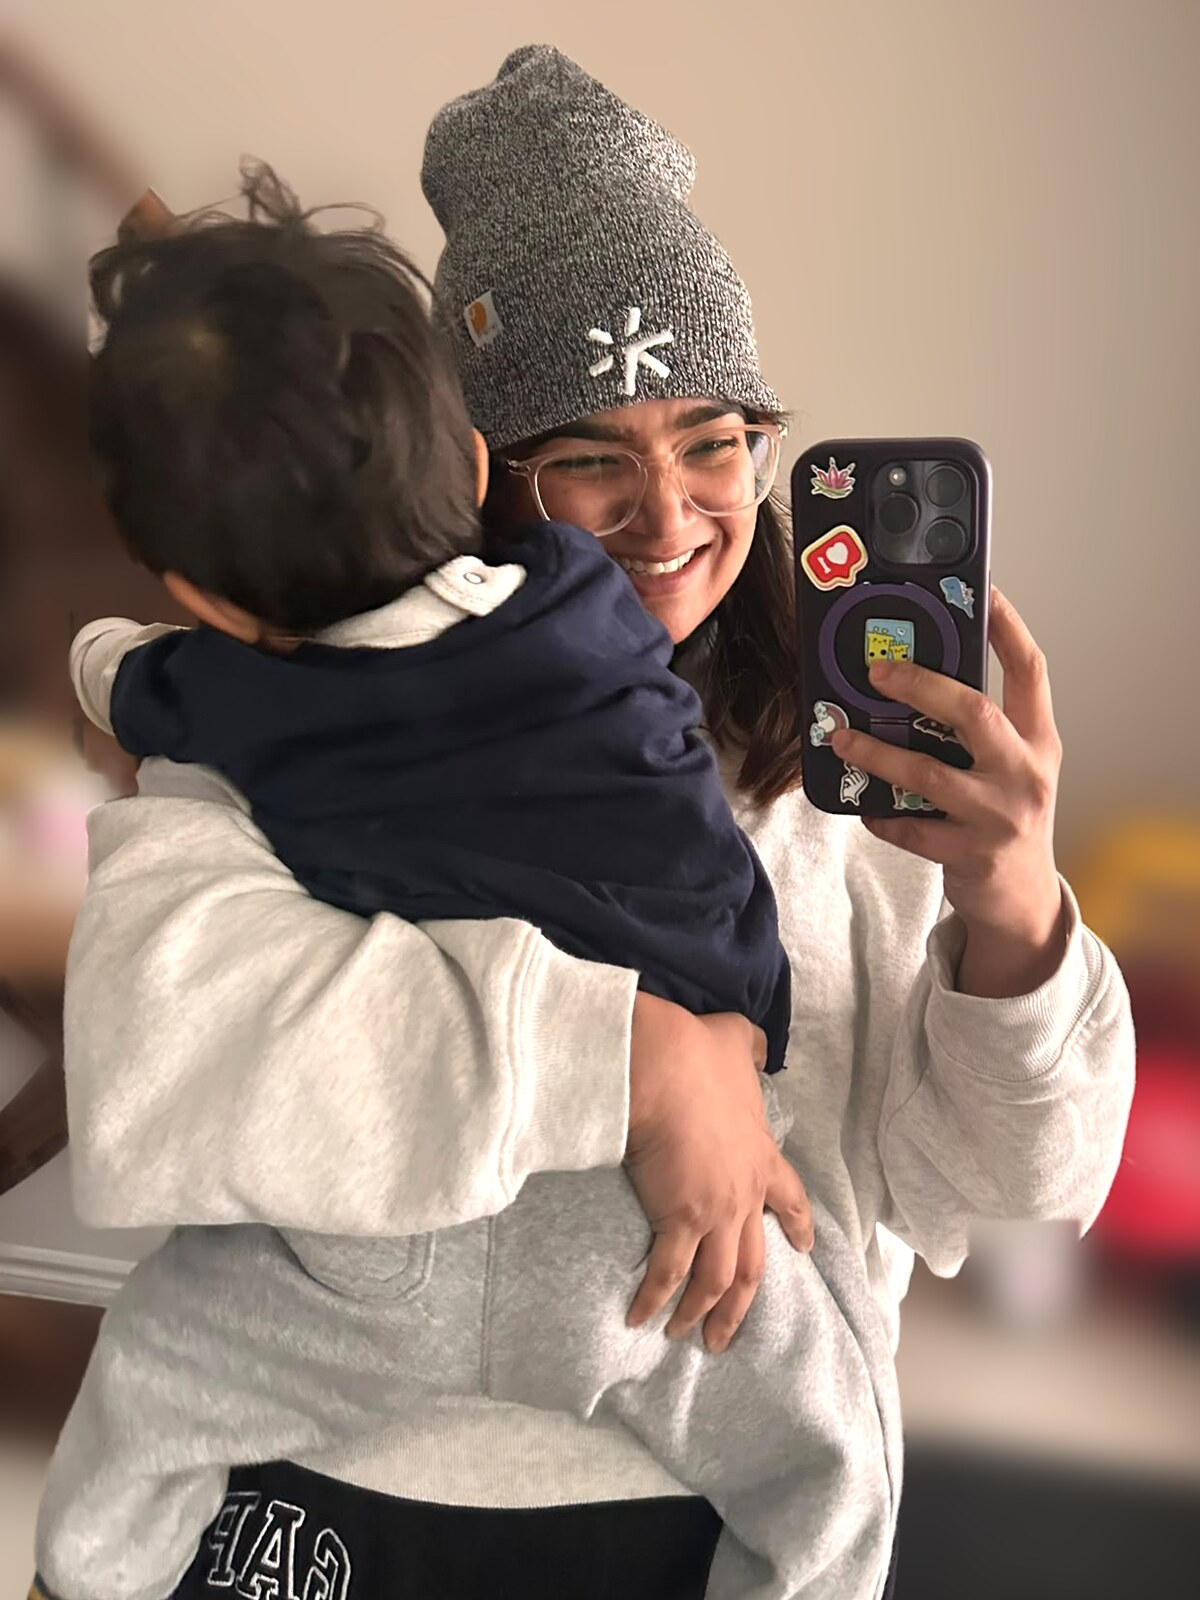
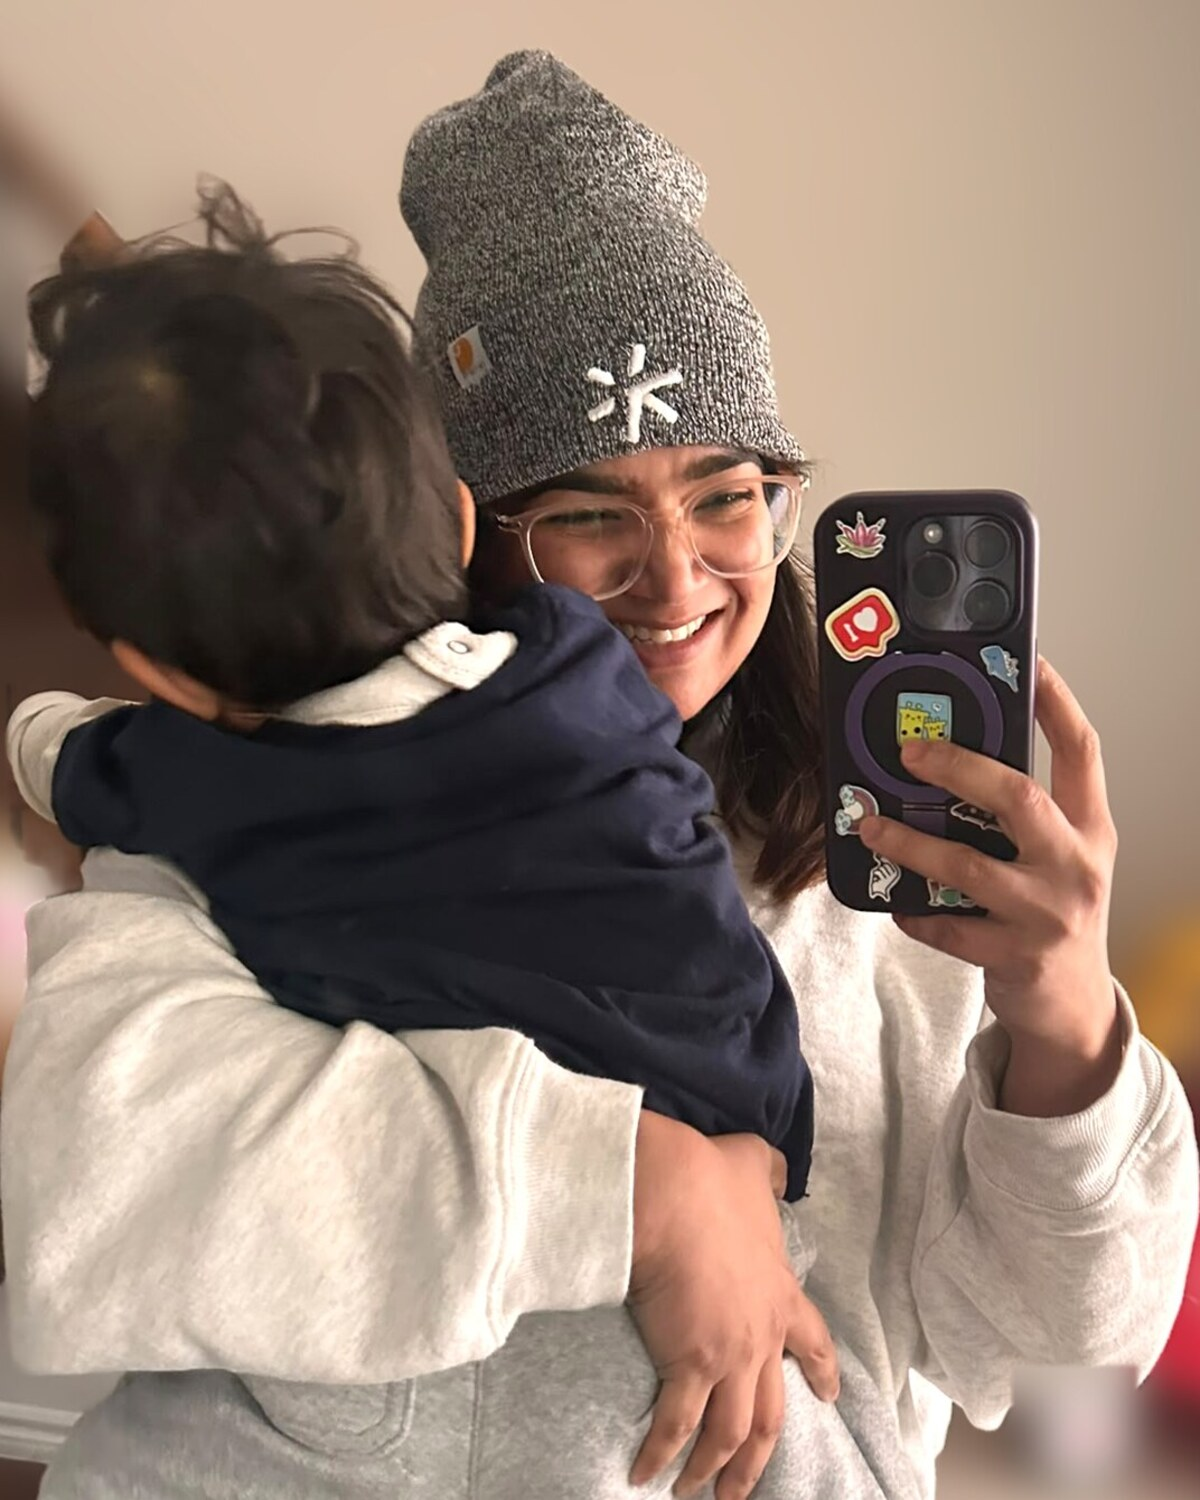
About photo: crop to the elbows
Amp-Thread-ID: https://ampcode.com/threads/T-01a14fbb-ac7d-740d-8387-9273b37bb768

diff --git a/index.html b/index.html
@@ -934,7 +934,7 @@
 
       <section class="about" id="about" aria-labelledby="about-title">
         <div class="about-photo">
-          <img src="assets/images/about-aditi-mirror.jpg" width="1200" height="1600"
+          <img src="assets/images/about-aditi-mirror.jpg" width="1200" height="1500"
                alt="Aditi in a grey beanie, smiling in a mirror selfie with her toddler on her hip" loading="lazy" decoding="async">
         </div>
         <div class="about-text">
